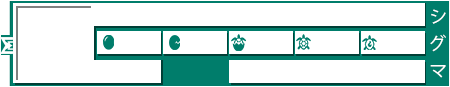
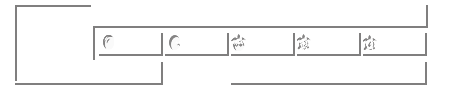
WK Rework

Changed region(s): [[0.0, 0.0, 1.0, 0.9885], [0.6533, 0.3908, 0.7156, 0.5747]]

diff --git a/sigma/plugins/nihongo/wanikani/message.py b/sigma/plugins/nihongo/wanikani/message.py
@@ -13,21 +13,21 @@ def parse_date(time, fmt='%B %d, %Y %H:%M'):
         return 'Unknown'
 
 
-def get_rank_info(level, location=174):
+def get_rank_info(level, location=174, color=(27, 111, 95)):
     if level == 60:
-        return ('発明', location, '_en', (0, 204, 255))
+        return ('発明', location, '_en', color)
     elif level >= 51:
-        return ('現実', location, '_re', (0, 153, 255))
+        return ('現実', location, '_re', color)
     elif level >= 41:
-        return ('天堂', location, '_par', (0, 102, 255))
+        return ('天堂', location, '_par', color)
     elif level >= 31:
-        return ('地獄', location, '_he', (51, 102, 255))
+        return ('地獄', location, '_he', color)
     elif level >= 21:
-        return ('死', 184, '_de', (102, 102, 255))
+        return ('死', 184, '_de', color)
     elif level >= 11:
-        return ('苦', 184, '_pai', (153, 102, 255))
+        return ('苦', 184, '_pai', color)
     else:
-        return ('快', 184, '_pl', (204, 51, 255))
+        return ('快', 184, '_pl', color)
 
 
 async def text_message(cmd, message, user):
@@ -78,19 +78,34 @@ async def text_message(cmd, message, user):
     await cmd.bot.send_message(message.channel, '```json\n{:s}\n```'.format(out))
 
 
-async def draw_image(cmd, message, user):
-    rank_category, kanji_loc, ov_color, txt_color = get_rank_info(user['level'])
-
+async def draw_image(cmd, message, user, clr):
+    user_color = clr
+    clr1 = int(user_color[:2], 16)
+    clr2 = int(user_color[2:-2], 16)
+    clr3 = int(user_color[4:], 16)
+    if clr1 > 180 or clr2 > 180 or clr3 > 180:
+        clr1 += - 65
+        clr2 += - 65
+        clr3 += - 65
+    transed_color = (clr1, clr2, clr3)
+    rank_category, kanji_loc, ov_color, txt_color = get_rank_info(user['level'], color=transed_color)
+    inv_color = (255 - txt_color[0], 255 - txt_color[1], 255 - txt_color[2])
     img_type = 'big' if user['method'] == 'api' else 'small'
+    if img_type == 'big':
+        base_size = (450, 132)
+    else:
+        base_size = (450, 87)
+    color_base_size = (450, 87)
 
     # load images and fonts
     try:
         # TODO: use default avatar image if it could not be downloaded
-        ava = Image.open(BytesIO(user['avatar'][1]))
-        base = Image.open(
-            cmd.resource('img/base_wk_{:s}.png'.format(img_type)))
+        ava_raw = Image.open(BytesIO(user['avatar'][1]))
+        ava = ava_raw.resize((78, 78), Image.ANTIALIAS)
+        base = Image.new('RGBA', base_size, (0, 0, 0, 0))
+        color_base = Image.new('RGB', color_base_size, transed_color)
         overlay = Image.open(
-            cmd.resource('img/overlay_wk_{:s}{:s}.png'.format(img_type, ov_color)))
+            cmd.resource('img/overlay_wk_{:s}.png'.format(img_type)))
     except IOError as e:
         cmd.log.error('{:s}'.format(str(e)))
         raise e
@@ -113,10 +128,11 @@ async def draw_image(cmd, message, user):
         cmd.log.error('{:s}'.format(str(e)))
         raise e
 
+    base.paste(color_base, (9, 0))
     base.paste(ava, (15, 5))
     base.paste(overlay, (0, 0), overlay)
 
-    review_color = (255, 255, 255)
+    review_color = txt_color
     review_font = font2
     review_pos = (420, 110)
 
@@ -145,30 +161,30 @@ async def draw_image(cmd, message, user):
     if user['method'] == 'api':
         imgdraw.text((11, 88), 'Next Review: {:s}'.format(
             parse_date(user['reviews']['next_date'])),
-            (255, 255, 255), font=font2)
+                     txt_color, font=font2)
 
         if int(user['reviews']['now']) > 150:
-            review_color = (255, 174, 35)
+            review_color = inv_color
             review_font = font2
 
         imgdraw.text((11, 110), 'Next Hour: {:d}'.format(
-            user['reviews']['next_hour']), (255, 255, 255), font=font4)
+            user['reviews']['next_hour']), txt_color, font=font4)
         imgdraw.text((136, 110), 'Next Day: {:d}'.format(
-            user['reviews']['next_day']), (255, 255, 255), font=font4)
+            user['reviews']['next_day']), txt_color, font=font4)
 
         imgdraw.text((252, 88), 'Radical: {:d}/{:d}'.format(
             user['radicals']['current'],
             user['radicals']['total']),
-            (255, 255, 255), font=font2)
+                     txt_color, font=font2)
 
         imgdraw.text((363, 88), 'Kanji: {:d}/{:d}'.format(
             user['kanji']['current'],
             user['kanji']['total']),
-            (255, 255, 255), font=font2)
+                     txt_color, font=font2)
 
         imgdraw.text((252, 110), 'Lessons: {:d}'.format(
-            user['lessons']['now']), (255, 255, 255), font=font2)
-        imgdraw.text((363, 110), 'Reviews: ', (255, 255, 255), font=font2)
+            user['lessons']['now']), txt_color, font=font2)
+        imgdraw.text((363, 110), 'Reviews: ', txt_color, font=font2)
         imgdraw.text(review_pos, str(user['reviews'][
                      'now']), review_color, font=review_font)
 

diff --git a/sigma/plugins/nihongo/wanikani/wanikani.py b/sigma/plugins/nihongo/wanikani/wanikani.py
@@ -18,7 +18,11 @@ async def wanikani(cmd, message, args):
             await text_message(cmd, message, user)
         else:
             try:
-                await draw_image(cmd, message, user)
+                if message.mentions:
+                    clr = str(message.mentions[0].color)[1:]
+                else:
+                    clr = str(message.author.color)[1:]
+                await draw_image(cmd, message, user, clr)
             except OSError:
                 # failed to generate image
                 await text_message(cmd, message, user)
